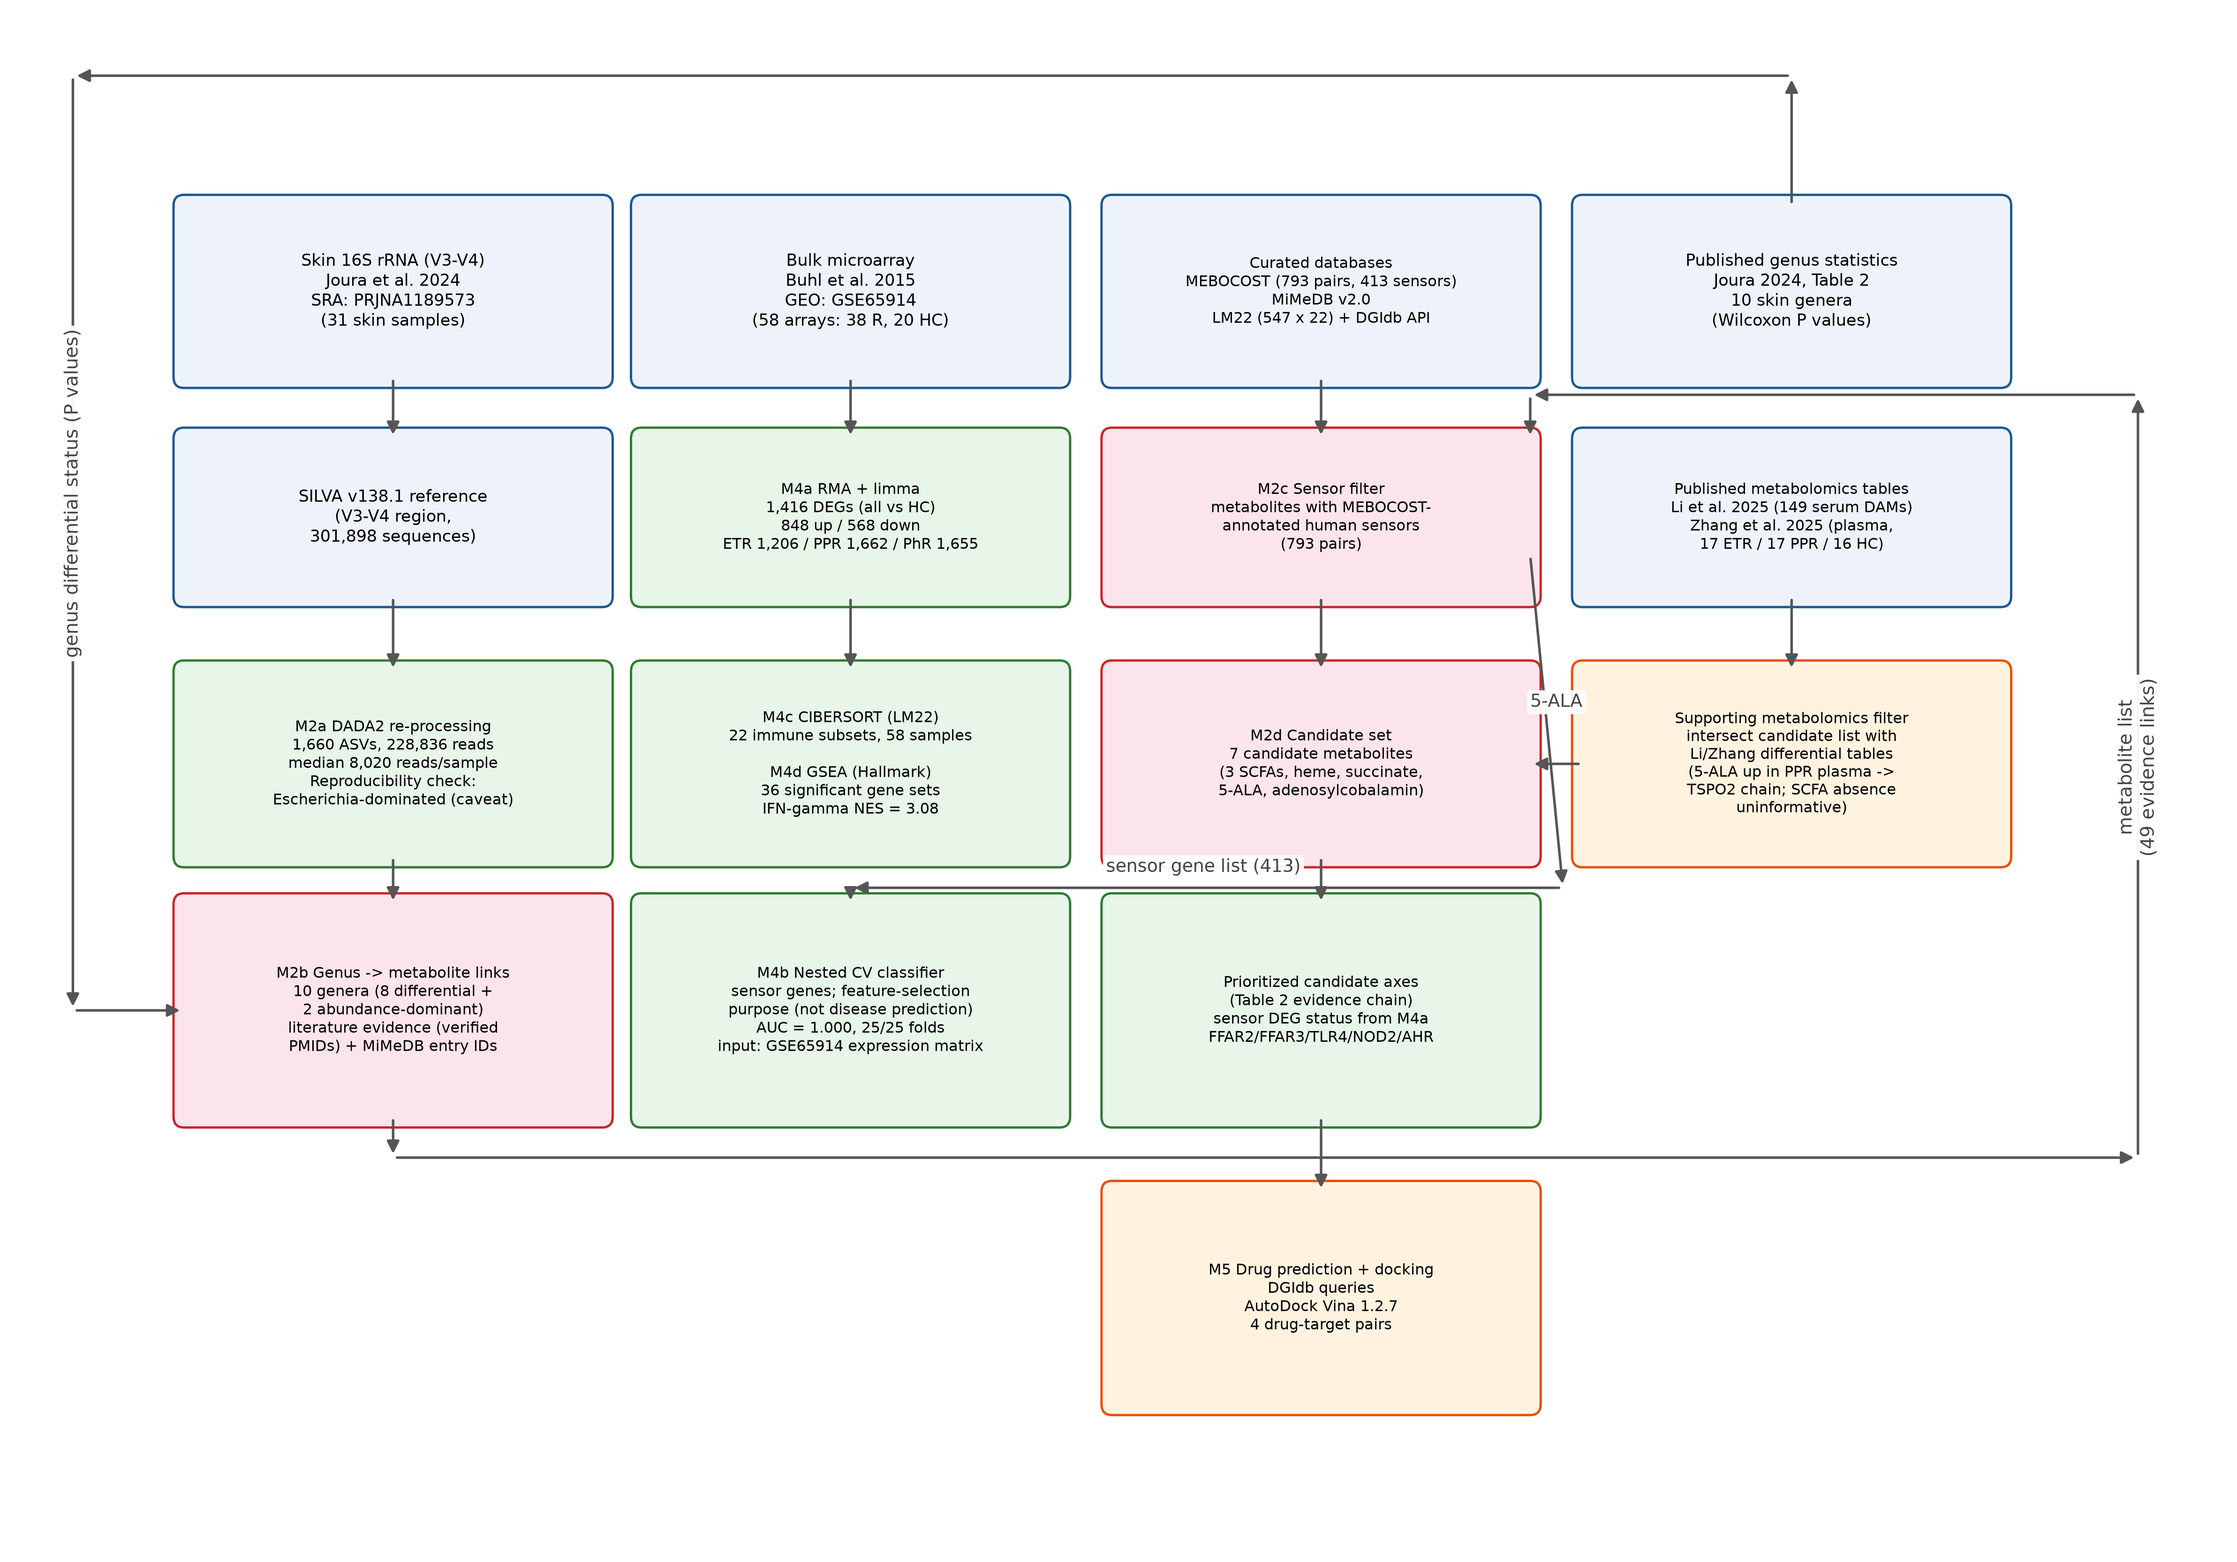
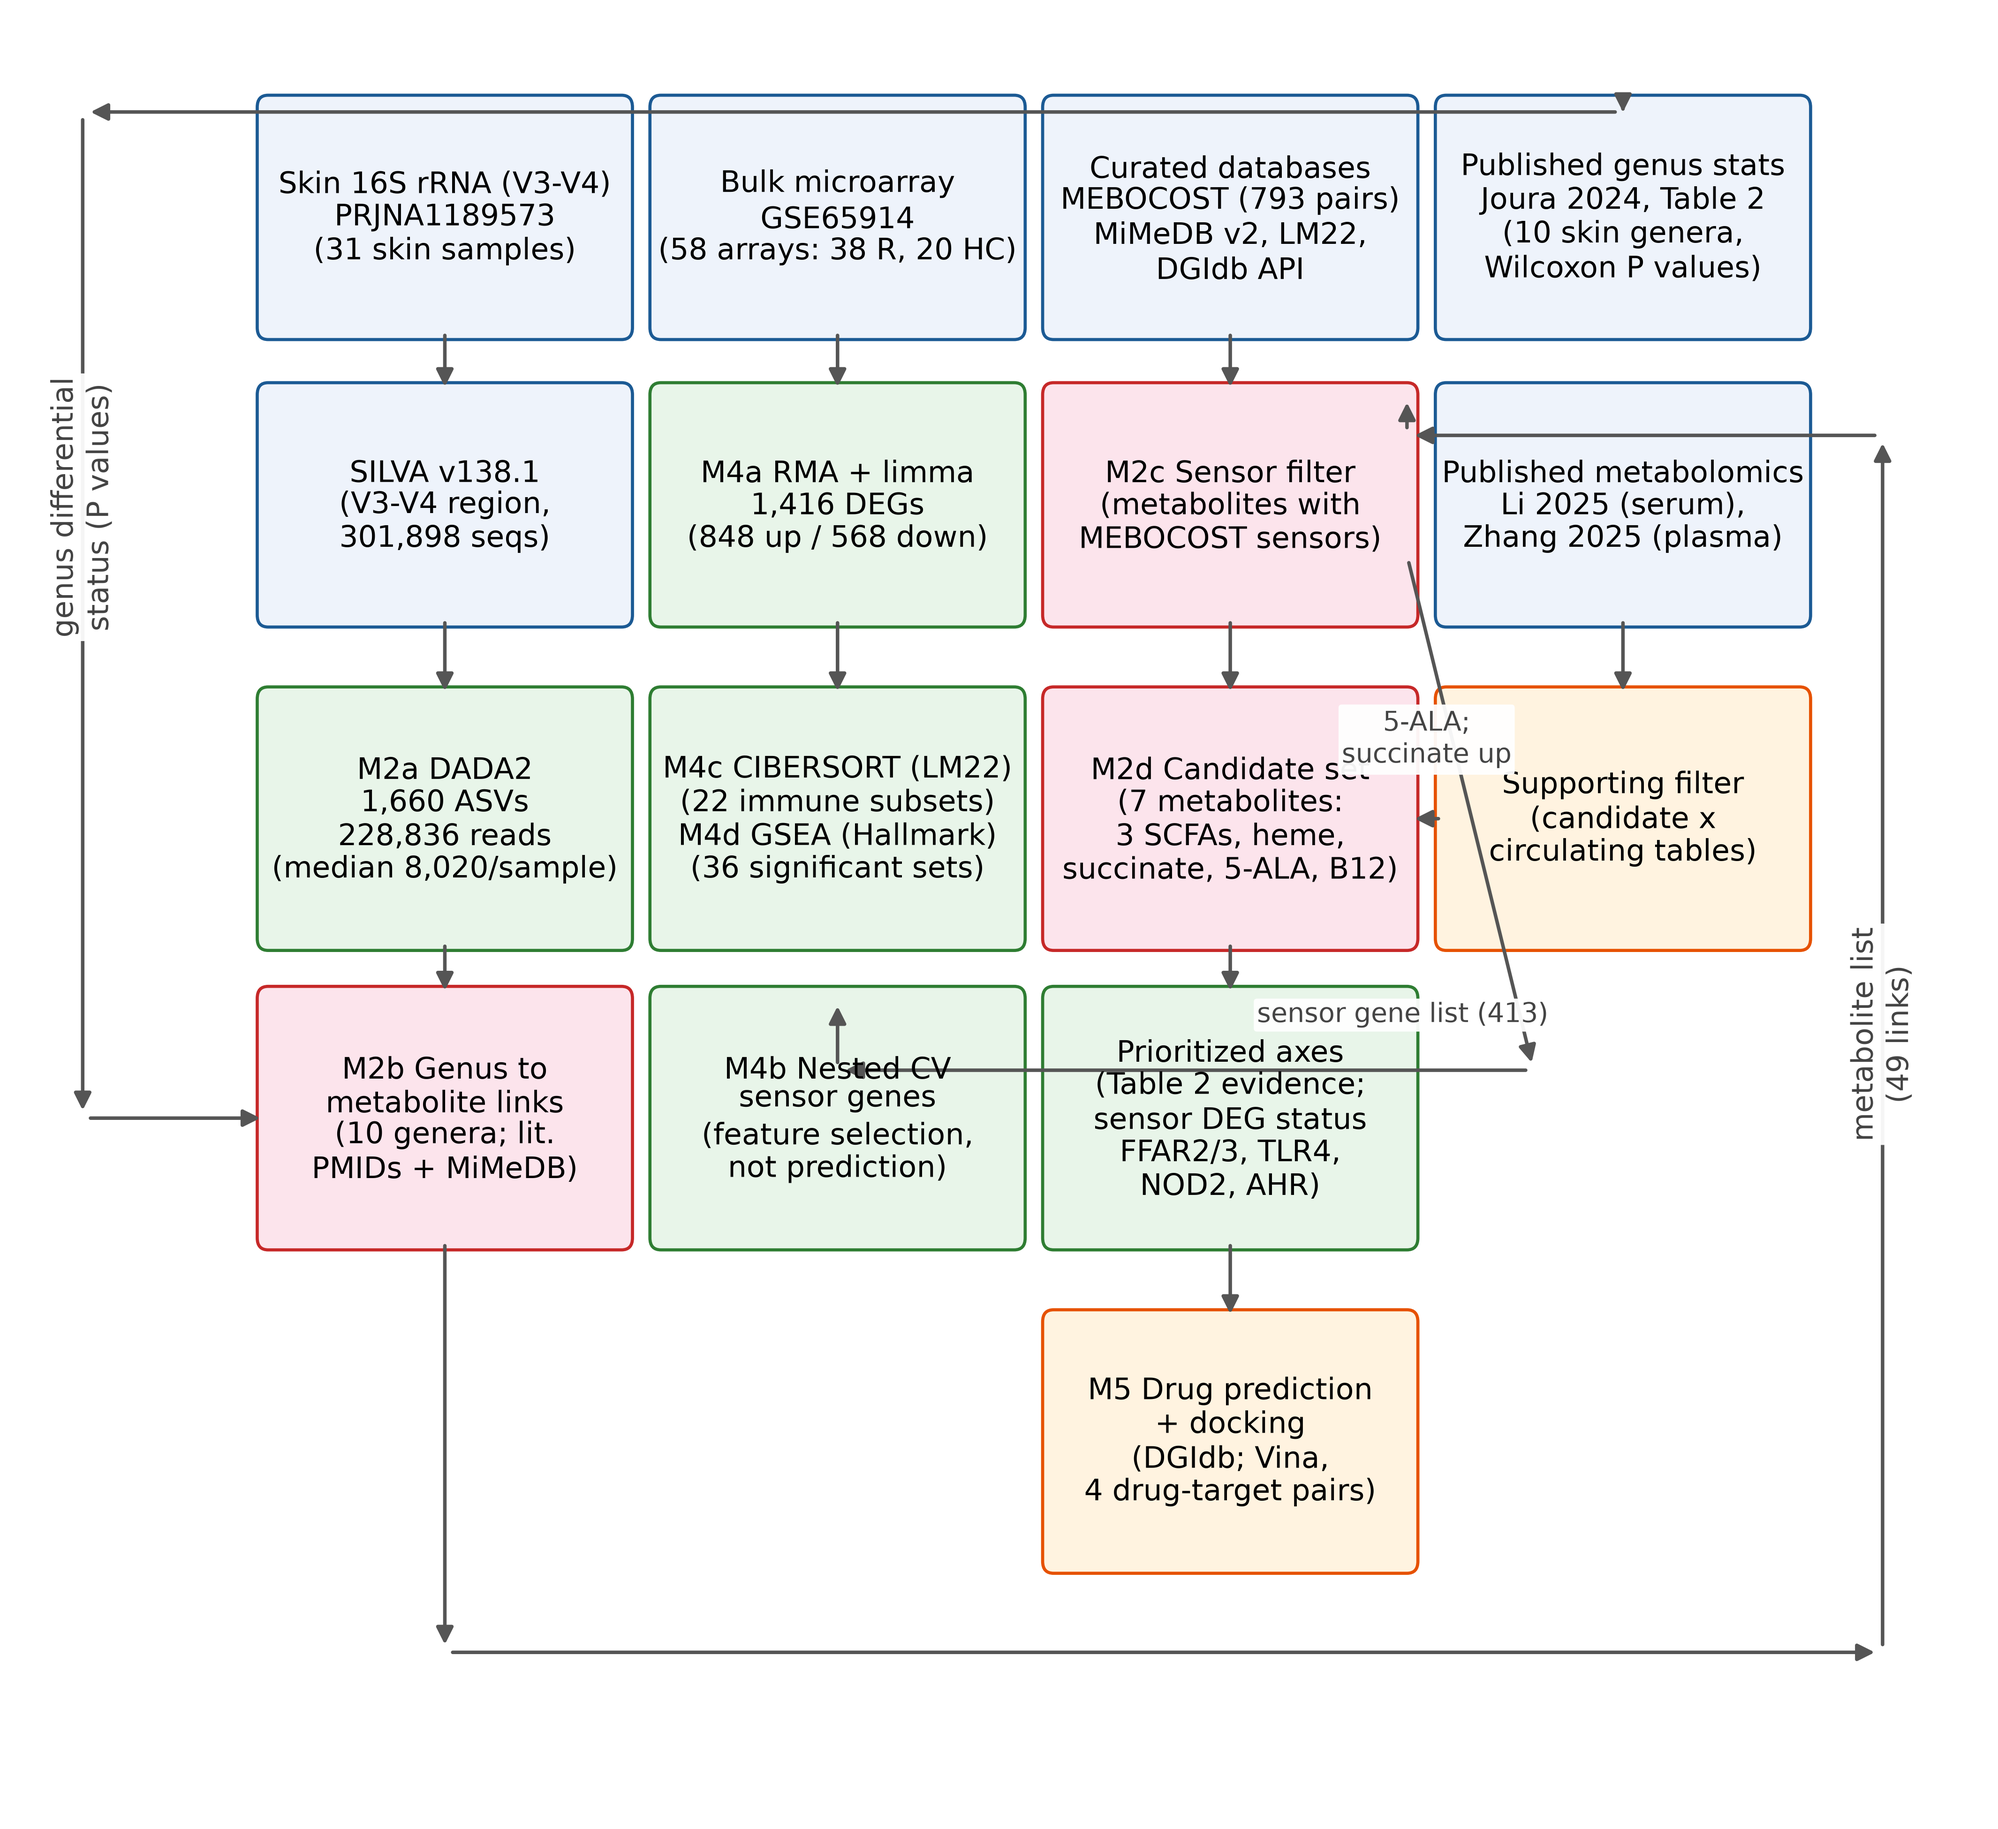
Figure 1 redrawn at print size (7.2in, fonts >= 7pt at final size)

diff --git a/scripts/figures/fig1_flowchart.py b/scripts/figures/fig1_flowchart.py
@@ -1,97 +1,93 @@
 #!/usr/bin/env python3
 """fig1_flowchart.py — Figure 1: data-source -> filtering -> integration flow chart.
+Designed AT print size: 7.2 in wide (Frontiers max 180 mm ~ 7.09 in); all fonts
+>= 7 pt at final size, so nothing shrinks below legibility when printed.
 Four vertical chains; cross-column connectors routed through margins (no arrow
-crosses any box). scRNA-seq removed (controlled access); metabolomics role shown
-as explicit supporting filter.
+crosses any box).
 """
 import matplotlib
 matplotlib.use("Agg")
 import matplotlib.pyplot as plt
 from matplotlib.patches import FancyBboxPatch, FancyArrowPatch
 
-fig, ax = plt.subplots(figsize=(16, 11.2), dpi=300)
-ax.set_xlim(-0.9, 16.0); ax.set_ylim(0, 11.2); ax.axis("off")
+fig, ax = plt.subplots(figsize=(7.2, 6.6), dpi=600)
+ax.set_xlim(-0.75, 8.15); ax.set_ylim(0, 7.4); ax.axis("off")
 
-def box(x, y, w, h, text, fc="#eef3fb", ec="#1b5a94", fs=8.5, lw=1.2):
-    ax.add_patch(FancyBboxPatch((x, y), w, h, boxstyle="round,pad=0.08",
+def box(x, y, w, h, text, fc="#eef3fb", ec="#1b5a94", fs=7.5, lw=0.8):
+    ax.add_patch(FancyBboxPatch((x, y), w, h, boxstyle="round,pad=0.05",
                                 fc=fc, ec=ec, lw=lw))
-    ax.text(x + w/2, y + h/2, text, ha="center", va="center", fontsize=fs)
+    ax.text(x + w/2, y + h/2, text, ha="center", va="center", fontsize=fs, linespacing=1.15)
 
-def arrow(x1, y1, x2, y2, color="#555555", style="-|>", lw=1.3, ls="-", conn=None):
-    ax.add_patch(FancyArrowPatch((x1, y1), (x2, y2), arrowstyle=style,
-                                 mutation_scale=13, lw=lw, color=color, linestyle=ls,
-                                 connectionstyle=conn or "arc3,rad=0"))
+def arrow(x1, y1, x2, y2, color="#555555", lw=0.9):
+    ax.add_patch(FancyArrowPatch((x1, y1), (x2, y2), arrowstyle="-|>",
+                                 mutation_scale=9, lw=lw, color=color))
 
-def flabel(x, y, text, color="#444444", fs=9, rot=0):
+def flabel(x, y, text, color="#444444", fs=7.5, rot=0):
     ax.text(x, y, text, ha="center", va="center", fontsize=fs, color=color,
-            rotation=rot, bbox=dict(boxstyle="round,pad=0.18", fc="white", ec="none", alpha=0.95))
+            rotation=rot, bbox=dict(boxstyle="round,pad=0.12", fc="white", ec="none", alpha=0.95))
 
-GREEN, ORANGE, PINK, BLUE, GRAY = "#e8f5e9", "#fff3e0", "#fce4ec", "#eef3fb", "#f5f5f5"
+GREEN, ORANGE, PINK, BLUE = "#e8f5e9", "#fff3e0", "#fce4ec", "#eef3fb"
 GE, OE, PE, BE = "#2e7d32", "#e65100", "#c62828", "#1b5a94"
 
-# column x positions
-c1, c2, c3, c4 = 0.4, 3.9, 7.5, 11.1
-w = 3.2
+# columns (4), rows (5)
+c1, c2, c3, c4 = 0.35, 2.15, 3.95, 5.75
+w = 1.62
 c1c, c2c, c3c, c4c = c1+w/2, c2+w/2, c3+w/2, c4+w/2
-# row y positions
-r1, r2, r3, r4, r5 = 8.55, 6.95, 5.05, 3.15, 1.05
-h1, h2, h3, h4, h5 = 1.25, 1.15, 1.35, 1.55, 1.55
+r1, r2, r3, r4, r5 = 6.15, 4.95, 3.6, 2.35, 1.0
+h1, h2, h3, h4, h5 = 0.92, 0.92, 1.0, 1.0, 1.0
 
-# ================= column 1: microbiome chain =================
-box(c1, r1, w, h1, "Skin 16S rRNA (V3-V4)\nJoura et al. 2024\nSRA: PRJNA1189573\n(31 skin samples)", fc=BLUE, ec=BE)
-box(c1, r2, w, h2, "SILVA v138.1 reference\n(V3-V4 region,\n301,898 sequences)")
-box(c1, r3, w, h3, "M2a DADA2 re-processing\n1,660 ASVs, 228,836 reads\nmedian 8,020 reads/sample\nReproducibility check:\nEscherichia-dominated (caveat)", fc=GREEN, ec=GE, fs=7.8)
-box(c1, r4, w, h4, "M2b Genus -> metabolite links\n10 genera (8 differential +\n2 abundance-dominant)\nliterature evidence (verified\nPMIDs) + MiMeDB entry IDs", fc=PINK, ec=PE, fs=7.8)
+# ---- column 1: microbiome ----
+box(c1, r1, w, h1, "Skin 16S rRNA (V3-V4)\nPRJNA1189573\n(31 skin samples)", fc=BLUE, ec=BE)
+box(c1, r2, w, h2, "SILVA v138.1\n(V3-V4 region,\n301,898 seqs)")
+box(c1, r3, w, h3, "M2a DADA2\n1,660 ASVs\n228,836 reads\n(median 8,020/sample)", fc=GREEN, ec=GE)
+box(c1, r4, w, h4, "M2b Genus to\nmetabolite links\n(10 genera; lit.\nPMIDs + MiMeDB)", fc=PINK, ec=PE)
 arrow(c1c, r1, c1c, r2+h2); arrow(c1c, r2, c1c, r3+h3); arrow(c1c, r3, c1c, r4+h4)
 
-# ================= column 2: host transcriptome chain =================
-box(c2, r1, w, h1, "Bulk microarray\nBuhl et al. 2015\nGEO: GSE65914\n(58 arrays: 38 R, 20 HC)", fc=BLUE, ec=BE)
-box(c2, r2, w, h2, "M4a RMA + limma\n1,416 DEGs (all vs HC)\n848 up / 568 down\nETR 1,206 / PPR 1,662 / PhR 1,655", fc=GREEN, ec=GE, fs=7.8)
-box(c2, r3, w, h3, "M4c CIBERSORT (LM22)\n22 immune subsets, 58 samples\n\nM4d GSEA (Hallmark)\n36 significant gene sets\nIFN-gamma NES = 3.08", fc=GREEN, ec=GE, fs=7.8)
-box(c2, r4, w, h4, "M4b Nested CV classifier\nsensor genes; feature-selection\npurpose (not disease prediction)\nAUC = 1.000, 25/25 folds\ninput: GSE65914 expression matrix", fc=GREEN, ec=GE, fs=7.8)
+# ---- column 2: host transcriptome ----
+box(c2, r1, w, h1, "Bulk microarray\nGSE65914\n(58 arrays: 38 R, 20 HC)", fc=BLUE, ec=BE)
+box(c2, r2, w, h2, "M4a RMA + limma\n1,416 DEGs\n(848 up / 568 down)", fc=GREEN, ec=GE)
+box(c2, r3, w, h3, "M4c CIBERSORT (LM22)\n(22 immune subsets)\nM4d GSEA (Hallmark)\n(36 significant sets)", fc=GREEN, ec=GE)
+box(c2, r4, w, h4, "M4b Nested CV\nsensor genes\n(feature selection,\nnot prediction)", fc=GREEN, ec=GE)
 arrow(c2c, r1, c2c, r2+h2); arrow(c2c, r2, c2c, r3+h3)
 
-# ================= column 3: integration chain =================
-box(c3, r1, w, h1, "Curated databases\nMEBOCOST (793 pairs, 413 sensors)\nMiMeDB v2.0\nLM22 (547 x 22) + DGIdb API", fc=BLUE, ec=BE, fs=7.8)
-box(c3, r2, w, h2, "M2c Sensor filter\nmetabolites with MEBOCOST-\nannotated human sensors\n(793 pairs)", fc=PINK, ec=PE, fs=7.8)
-box(c3, r3, w, h3, "M2d Candidate set\n7 candidate metabolites\n(3 SCFAs, heme, succinate,\n5-ALA, adenosylcobalamin)", fc=PINK, ec=PE, fs=7.8)
-box(c3, r4, w, h4, "Prioritized candidate axes\n(Table 2 evidence chain)\nsensor DEG status from M4a\nFFAR2/FFAR3/TLR4/NOD2/AHR", fc=GREEN, ec=GE, fs=7.8)
-box(c3, r5, w, h5, "M5 Drug prediction + docking\nDGIdb queries\nAutoDock Vina 1.2.7\n4 drug-target pairs", fc=ORANGE, ec=OE, fs=7.8)
+# ---- column 3: integration ----
+box(c3, r1, w, h1, "Curated databases\nMEBOCOST (793 pairs)\nMiMeDB v2, LM22,\nDGIdb API", fc=BLUE, ec=BE)
+box(c3, r2, w, h2, "M2c Sensor filter\n(metabolites with\nMEBOCOST sensors)", fc=PINK, ec=PE)
+box(c3, r3, w, h3, "M2d Candidate set\n(7 metabolites:\n3 SCFAs, heme,\nsuccinate, 5-ALA, B12)", fc=PINK, ec=PE)
+box(c3, r4, w, h4, "Prioritized axes\n(Table 2 evidence;\nsensor DEG status\nFFAR2/3, TLR4,\nNOD2, AHR)", fc=GREEN, ec=GE)
+box(c3, r5, w, h5, "M5 Drug prediction\n+ docking\n(DGIdb; Vina,\n4 drug-target pairs)", fc=ORANGE, ec=OE)
 arrow(c3c, r1, c3c, r2+h2); arrow(c3c, r2, c3c, r3+h3); arrow(c3c, r3, c3c, r4+h4); arrow(c3c, r4, c3c, r5+h5)
 
-# ================= column 4: published inputs + CV feature space =================
-box(c4, r1, w, h1, "Published genus statistics\nJoura 2024, Table 2\n10 skin genera\n(Wilcoxon P values)", fc=BLUE, ec=BE)
-box(c4, r2, w, h2, "Published metabolomics tables\nLi et al. 2025 (149 serum DAMs)\nZhang et al. 2025 (plasma,\n17 ETR / 17 PPR / 16 HC)", fc=BLUE, ec=BE, fs=7.8)
-box(c4, r3, w, h3, "Supporting metabolomics filter\nintersect candidate list with\nLi/Zhang differential tables\n(5-ALA up in PPR plasma ->\nTSPO2 chain; SCFA absence\nuninformative)", fc=ORANGE, ec=OE, fs=7.6)
+# ---- column 4: published inputs ----
+box(c4, r1, w, h1, "Published genus stats\nJoura 2024, Table 2\n(10 skin genera,\nWilcoxon P values)", fc=BLUE, ec=BE)
+box(c4, r2, w, h2, "Published metabolomics\nLi 2025 (serum),\nZhang 2025 (plasma)", fc=BLUE, ec=BE)
+box(c4, r3, w, h3, "Supporting filter\n(candidate x\ncirculating tables)", fc=ORANGE, ec=OE)
 arrow(c4c, r2, c4c, r3+h3)
-# filter -> candidate set (short horizontal)
 arrow(c4, r3+h3/2, c3+w, r3+h3/2)
-flabel((c4+c3+w)/2, r3+h3/2+0.45, "5-ALA", fs=9)
+flabel((c4+c3+w)/2, r3+h3/2+0.33, "5-ALA;\nsuccinate up", fs=6.8)
 
-# ================= routed connectors (margin channels only; no box crossings) =================
-# 1) published genus stats -> M2b (over the top margin, down the left margin)
-arrow(c4c, r1+h1, c4c, 10.75)                       # up from pub-stats top
-arrow(c4c, 10.75, -0.45, 10.75)                     # across the top margin
-arrow(-0.45, 10.75, -0.45, r4+h4/2)                 # down the left margin
-arrow(-0.45, r4+h4/2, c1, r4+h4/2)                  # into M2b left edge
-flabel(-0.45, 7.7, "genus differential status (P values)", rot=90, fs=9.5)
+# ---- routed connectors (margins; none crosses a box) ----
+# published genus stats -> M2b (top margin, left margin)
+arrow(c4c, r1+h1, c4c, 7.05)
+arrow(c4c, 7.05, -0.5, 7.05)
+arrow(-0.5, 7.05, -0.5, r4+h4/2)
+arrow(-0.5, r4+h4/2, c1, r4+h4/2)
+flabel(-0.5, 5.4, "genus differential\nstatus (P values)", rot=90, fs=7.5)
 
-# 2) M2b -> M2c (down, across the r4-r5 strip, up the right margin, over the r1-r2 strip, into M2c)
-arrow(c1c, r4, c1c, 2.85)                           # down from M2b bottom
-arrow(c1c, 2.85, 15.35, 2.85)                       # across the free strip below row 4
-arrow(15.35, 2.85, 15.35, 8.42)                     # up the right margin (right of all c4 boxes)
-arrow(15.35, 8.42, c3+w, 8.42)                      # across the free strip above row 2
-arrow(c3+w, 8.42, c3+w, r2+h2)                      # down into M2c right edge
-flabel(15.35, 5.7, "metabolite list\n(49 evidence links)", rot=90, fs=9.5)
+# M2b -> M2c (down, bottom strip, right margin, top strip)
+arrow(c1c, r4, c1c, 0.62)
+arrow(c1c, 0.62, 7.75, 0.62)
+arrow(7.75, 0.62, 7.75, 5.7)
+arrow(7.75, 5.7, c3+w, 5.7)
+arrow(c3+w, 5.7, c3+w, r2+h2)
+flabel(7.75, 3.2, "metabolite list\n(49 links)", rot=90, fs=7.5)
 
-# 3) M2c -> M4b (sensor gene list; via the gap between columns 3 and 4, then the r3-r4 strip)
-arrow(c3+w, r2+0.3, 10.95, 4.82)                    # down through the c3-c4 gap
-arrow(10.95, 4.82, c2c, 4.82)                       # left across the r3-r4 strip
-arrow(c2c, 4.82, c2c, r4+h4)                        # into M4b top edge
-flabel(8.2, 4.97, "sensor gene list (413)", fs=9)
-
-# M4a -> M4c/M4d is vertical (drawn above); M4a also feeds axes evidence via Table 2 text (no arrow)
+# M2c -> M4b (sensor gene list; through c3-c4 gap and r3-r4 strip)
+arrow(c3+w, r2+0.25, 6.15, 3.05)
+arrow(6.15, 3.05, c2c, 3.05)
+arrow(c2c, 3.05, c2c, r4+h4)
+flabel(5.55, 3.28, "sensor gene list (413)", fs=6.8)
 
 plt.tight_layout()
-plt.savefig("output/figures/Fig1_flowchart.png", dpi=300, bbox_inches="tight")
-print("Fig1 saved")
+plt.savefig("output/figures/Fig1_flowchart.png", dpi=600, bbox_inches="tight")
+print("Fig1 saved (print-size layout)")
